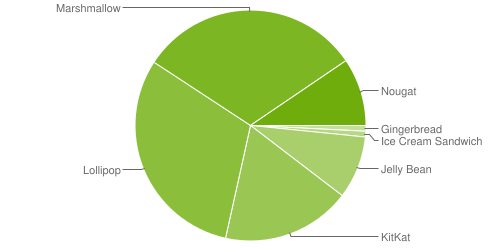
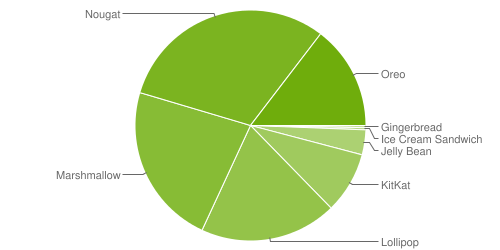
update slides and add some new content

diff --git a/index.html b/index.html
@@ -71,11 +71,9 @@
                 <h3>Let's talk about money!</h3>
 
                 <div class="fragment">
-                    <img data-src="images/apps.png" height="250px">
-                    <img data-src="images/prices.jpg" height="250px">
-                    <a class="ref"
-                       href="http://www.phonandroid.com/google-play-store-vs-apple-app-store-match-sommet.html"
-                       target="_blank"> 9 june 2016</a>
+                    <img data-src="images/apps.png" height="250px"><br/>
+                    <img data-src="images/downloads-by-Store-in-2017.png" height="300px">
+                    <img data-src="images/consumer-spend-by-store-2017.png" height="300px">
                 </div>
             </section>
             <section>
@@ -106,8 +104,8 @@
 
                 <div class="fragment">
                     <img data-src="images/densitysize.png" height="250px">
-                    <a class="ref" href="https://developer.android.com/about/dashboards/index.html" target="_blank">March
-                        6, 2017, developer.android </a>
+                    <a class="ref" href="https://developer.android.com/about/dashboards/index.html" target="_blank">
+                        September 12, 2018, developer.android.com</a>
                 </div>
             </section>
             <section>
@@ -115,15 +113,16 @@
 
                 <div class="fragment">
                     <img data-src="images/versions.png" height="250px">
+                    <img data-src="images/android-8-oreo_m.gif" height="250px">
                     <a class="ref" href="https://developer.android.com/about/dashboards/index.html" target="_blank">Data
-                        collected during a 7-day period ending on June 5, 2017. </a>
+                        collected during a 7-day period ending on September 12, 2018. </a>
                     <img data-src="images/android_versions.png" height="250px">
                 </div>
             </section>
             <section>
-                <img data-src="images/version2017.png" height="500px">
-                <a class="ref" href="https://developer.android.com/about/dashboards/index.html" target="_blank">June 5,
-                    2017, developer.android </a>
+                <img data-src="images/version2018.png" height="600px">
+                <a class="ref" href="https://developer.android.com/about/dashboards/index.html" target="_blank">September
+                    12, 2018, developer.android.com</a>
             </section>
             <section>
                 <h3>Network and energy</h3>
@@ -138,9 +137,16 @@
                 <img class="fragment" data-src="images/android_linux.png" height="400px">
             </section>
             <section>
-                <h3>JVM vs DALVIK ?</h3>
-                <!--https://developer.android.com/studio/build/index.html-->
-                <img data-src="images/jvm-dalvik.png" height="500px">
+                <h3>JVM vs DALVIK</h3>
+                <img class="fragment" data-src="images/jvm_dvm.png" height="500px">
+            </section>
+            <section>
+                <h3>Build Process</h3>
+                <div class="fragment">
+                    <!--https://developer.android.com/studio/build/index.html-->
+                    <img data-src="images/build-process.png" height="500px">
+                    <a class="ref" href="https://developer.android.com/studio/build/index.html" target="_blank">Build process, developer.android.com</a>
+                </div>
             </section>
             <section>
                 <h3>ART</h3>
@@ -161,7 +167,7 @@
                         <a href="http://developer.android.com" target="_blank">http://developer.android.com</a>
                     </li>
                 </ol>
-                <img data-src="images/newProject.png"  width="450px">
+                <img data-src="images/newProject.png" width="450px">
                 <img data-src="images/newProjectSdk.png" width="450px">
             </section>
             <section>
@@ -170,7 +176,7 @@
             </section>
             <section>
                 <h3>The manifest</h3>
-                <script src="https://gist.github.com/nicolasfavier/5dab0743ba4a05e8a2447cac8bccda18.js"></script>
+                <script src="https://gist.github.com/Aallam/bbb54bef33e97cdeeca095ea053034c5.js"></script>
             </section>
         </section>
         <section>
@@ -179,17 +185,32 @@
             </section>
             <section>
                 <h3>WYSIWYG</h3>
-                <img data-src="images/WYSIWYG.png" height="500px">
+                <img data-src="images/WYSIWYG.png" height="600px">
+            </section>
+            <section>
+                <h3>Hierarchy</h3>
+                <img data-src="images/viewgroup.png" height="300px">
+                <ul>
+                    <li class="fragment"><b>View</b>: Button, TextView, ImageView, ...</li>
+                    <li class="fragment"><b>ViewGroup</b>: LinearLayout, RelativeLayout, ConstraintLayout, ...</li>
+                </ul>
             </section>
             <section>
                 <h3>Linear layout</h3>
-                <img data-src="images/linear.png" height="600px">
-                <img data-src="images/linear_preview.png" height="600px">
+                <p class="small" style="text-align: center;">A layout that organizes its children into a single horizontal or vertical row</p>
+                <img data-src="images/dg_layout_diagram_and_hierarchy.png" height="500px">
             </section>
             <section>
                 <h3>Relative layout</h3>
-                <img data-src="images/relative.png" height="600px">
-                <img data-src="images/linear_preview.png" height="600px">
+                <p class="small" style="text-align: center;">Enables you to specify the location of child objects relative to each other or to the parent</p>
+                <img data-src="images/relativelayout1.png" height="500px">
+                <img data-src="images/relativelayout2.png" height="500px">
+            </section>
+            <section>
+                <h3>LinearLayout vs RelativeLayout</h3>
+                <img data-src="images/relative.png" height="380px">
+                <img data-src="images/linear_preview.png" height="380px">
+                <img data-src="images/linear.png" height="380px">
             </section>
             <section>
                 <h3>XML ToolBox</h3>
@@ -237,11 +258,11 @@
                 <img style="float:left;" data-src="images/help_exo1.png" height="400px">
             </section>
             <section data-background="#BBDEFB">
-                <h3>Bonus</h3>
+                <h3>Bonus: ConstraintLayout</h3>
 
-                <p class="small">From the menu in the login page, open a new activity. In this new Activity try to
-                    reproduce the following image</p>
-                <img data-src="images/exo2-bonus.png" height="400px">
+                <p class="small" style="text-align: center;">Try recreate the previous exercise, but this time using <b>ConstraintLayout</b></p>
+                <img data-src="images/constraintlayout_vs_relativelayout.png" height="325px">
+                <img data-src="images/constraint_example.png" height="325px">
             </section>
         </section>
         <section>
@@ -272,7 +293,7 @@
                     The objective of this exercise is to understand the states of the activity. We are going to use
                     Android API to log those events.
                 </p>
-<pre data-trim data-noescape>
+                <pre data-trim data-noescape>
 <code>
     Log.i(TAG, "onCreate!");
 
@@ -280,7 +301,7 @@
                 <p class="small">
                     A common practice is to add a TAG to the class for all logs.
                 </p>
-<pre data-trim data-noescape>
+                <pre data-trim data-noescape>
 <code>
     public class ParlezVousActivity extends Activity {
     private final String TAG = ParlezVousActivity.class.getSimpleName();
@@ -307,7 +328,7 @@
 
                     In the onCreate method of the activity, recover the objects of the view you want to manipulate.
                     Use the findViewById() method:</p>
-<pre data-trim data-noescape>
+                <pre data-trim data-noescape>
 <code>
     private EditText usernameField;
 
@@ -321,7 +342,7 @@
                 <p class="small">
                     Add a listener on the buttons, it can either be in or outside of the class.
                     Implement the "Clear" button and the "Send" button, when the send button is clicked show a toast.
-<pre data-trim data-noescape>
+                <pre data-trim data-noescape>
 <code>
     Toast.makeText(this, "Toast !", Toast.LENGTH_SHORT).show();
 
@@ -336,7 +357,7 @@
                     password is at least 3 characters.
                     To display the error, use a classic TextView and chagne its visibility.
                 </p>
-<pre data-trim data-noescape>
+                <pre data-trim data-noescape>
 <code>
     setVisibility(View.VISIBLE);
 
@@ -403,7 +424,7 @@
                     <span class="fragment">AndroidManifest.xml</span>
 
                 </p>
-<pre data-trim data-noescape class="fragment">
+                <pre data-trim data-noescape class="fragment">
 <code>
     &lt;uses-permission android:name="android.permission.INTERNET" /&gt;
 
@@ -518,7 +539,7 @@
     }
 
 </code></pre>
-<pre data-trim data-noescape>
+                <pre data-trim data-noescape>
 <code>
     Glide.with(this).load("http://goo.gl/gEgYUd").into(imageView);
 
@@ -629,31 +650,6 @@
                 </ul>
             </section>
             <section>
-                <h1>Retrolambda</h1>
-                <img data-src="images/retrolambda.jpg" height="200px">
-                <h4>
-                    Go check the lib:<a href="https://github.com/orfjackal/retrolambda" target="_blank"> Retrolambda</a>
-                </h4>
-            </section>
-            <section>
-                <h3>Pros</h3>
-                Use features from java8
-
-                <br/>
-                <br/>
-
-                <h3>Cons</h3>
-                Not 100% stable
-
-                <br>
-                <br>
-
-                <h3>Alternative</h3>
-                Android N
-                Kotlin
-
-            </section>
-            <section>
                 <h1>EventBus</h1>
                 <img data-src="images/eventbus.png" height="200px">
                 <h4>
@@ -683,6 +679,29 @@
                 <div class="container">
                     <script src="https://gist.github.com/nicolasfavier/ecc2fe12f10c0877c7a9883e7b12ed6a.js"></script>
                 </div>
+            </section>
+            <section>
+                <h1>Android Jetpack</h1>
+                <img data-src="images/jetpack.png" height="400px">
+                <h4>
+                    <a href="https://developer.android.com/jetpack/" target="_blank">developer.android.com/jetpack</a>
+                </h4>
+            </section>
+            <section>
+                <h3>Pros</h3>
+                <ul>
+                    <li>Build high quality, robust apps</li>
+                    <li>Eliminate boilerplate code</li>
+                    <li>Accelerate development</li>
+                </ul>
+                <br/>
+                <br/>
+                <h3>Cons</h3>
+                <ul>
+                    <li>May be hard for beginners</li>
+                    <li>Many components to master</li>
+                </ul>
+                <br/>
             </section>
             <section>
                 <h2>Other useful tools</h2>
@@ -829,7 +848,7 @@
                 <h3>... mais de plus en plus proche !</h3>
                 <div class="fragment">
                     <img data-src="images/spotify-android.png" height="500px">
-                  <span class="fragment">                  <img data-src="images/facebook-iphone.jpeg" height="500px">
+                    <span class="fragment">                  <img data-src="images/facebook-iphone.jpeg" height="500px">
 </span>
                 </div>
             </section>
@@ -868,8 +887,8 @@
             {src: 'plugin/notes/notes.js', async: true},
             {
                 src: 'plugin/highlight/highlight.js', async: true, callback: function () {
-                hljs.initHighlightingOnLoad();
-            }
+                    hljs.initHighlightingOnLoad();
+                }
             }
         ]
     });
